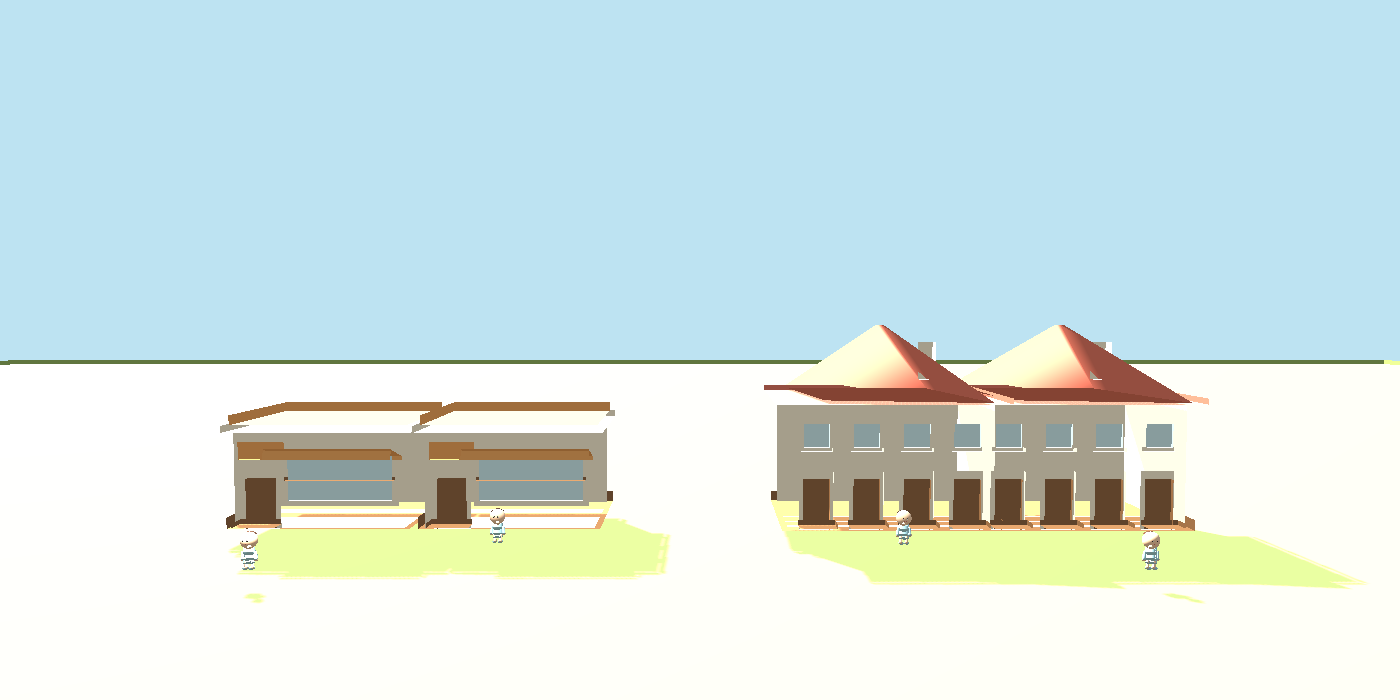
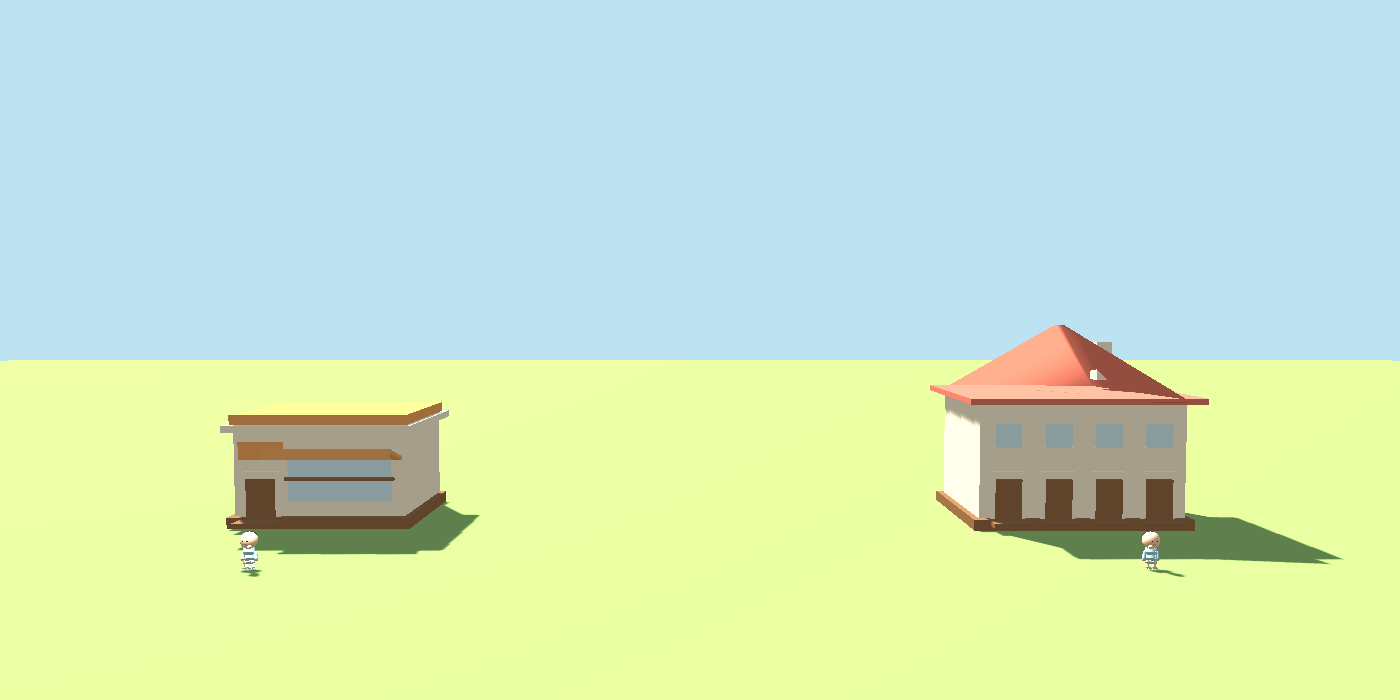
Todas las cajas del juego estaban del reves
Las paredes eran invisibles y llevaban asi desde el principio. Lo que se veia
donde tenia que estar la fachada era la cara de atras por dentro, porque el
triangulo estaba enrollado al reves y el culling se comia la de delante.

No se noto en ocho meses porque no se nota: la silueta es identica —la cara de
atras esta veinte centimetros mas alla— y lo unico que cambia es con que normal
se sombrea. Se lee como "esta pared esta rara", no como "esta pared no esta". Y
las habitaciones se miran desde dentro, donde una caja del reves se ve perfecta.

De ahi salia todo lo que ayer no supe explicar: la cuna blanca quemada en la
fachada era un rayo de sol entrando por el hueco de la chimenea y dando en la
pared de dentro; y con el sol puesto de frente los marcos y alfeizares se
iluminaban mientras el muro seguia oscuro, porque el muro que se veia era otro.
Por eso el bias no cambiaba nada: no habia nada que corregir en la sombra.

- MeshShapeTests: dos pruebas que lo habrian pillado. Una mira las normales
  contra la posicion del vertice; la otra, el sentido de cada triangulo.
- Estudio: las herramientas de captura se pisaban. Crear una escena no descarga
  la anterior, y el retrato de los munecos salio con el tronco del arbol de la
  isla de fondo. Se apagan mallas y luces de lo que no es el plato — no los
  objetos: apagar las raices de la isla mato al AudioListener en marcha y el
  editor se fue con un fallo de FMOD. Y se buscan por objeto y no recorriendo
[…]

diff --git a/Assets/_Project/Tests/MeshShapeTests.cs b/Assets/_Project/Tests/MeshShapeTests.cs
@@ -1,0 +1,63 @@
+using Nimbo.Art.Chibi;
+using NUnit.Framework;
+using UnityEngine;
+
+namespace Nimbo.Tests
+{
+    /// <summary>
+    /// Que las cajas se vean por fuera.
+    /// </summary>
+    /// <remarks>
+    /// Una caja del revés no se nota: la silueta es la misma, porque al descartar la
+    /// cara de delante se ve la de atrás por dentro, y está justo detrás. Lo que
+    /// cambia es la luz — se sombrea con la normal de la cara contraria — y eso se
+    /// lee como «esta pared está rara», no como «esta pared no está».
+    ///
+    /// Estuvo así desde el principio y aguantó porque las habitaciones se miran
+    /// desde dentro, y una caja del revés mirada desde dentro se ve perfecta.
+    /// </remarks>
+    public class MeshShapeTests
+    {
+        [Test]
+        public void LasCarasDeUnaCajaMiranHaciaFuera()
+        {
+            var mesh = MeshShapes.Box(new Vector3(2f, 3f, 4f));
+            var vertices = mesh.vertices;
+            var normals = mesh.normals;
+
+            for (int i = 0; i < vertices.Length; i++)
+            {
+                // Cada vértice está en una esquina, así que su posición ya apunta
+                // hacia fuera del centro. Si la normal mira al lado contrario, esa
+                // cara está del revés.
+                Assert.Greater(Vector3.Dot(normals[i], vertices[i]), 0f,
+                    $"El vértice {i} en {vertices[i]} tiene la normal {normals[i]}, "
+                    + "que apunta hacia dentro de la caja.");
+            }
+        }
+
+        [Test]
+        public void UnaCajaSeVeDesdeFueraYNoDesdeDentro()
+        {
+            var mesh = MeshShapes.Box(Vector3.one);
+            var vertices = mesh.vertices;
+            var triangles = mesh.triangles;
+
+            for (int t = 0; t < triangles.Length; t += 3)
+            {
+                Vector3 a = vertices[triangles[t]];
+                Vector3 b = vertices[triangles[t + 1]];
+                Vector3 c = vertices[triangles[t + 2]];
+
+                // Unity dibuja un triángulo cuando se le ve en el sentido de las
+                // agujas del reloj, y eso es lo mismo que decir que este producto
+                // vectorial apunta hacia el que mira.
+                Vector3 cara = Vector3.Cross(b - a, c - a);
+                Vector3 centro = (a + b + c) / 3f;
+
+                Assert.Greater(Vector3.Dot(cara, centro), 0f,
+                    $"El triángulo {t / 3} está enrollado al revés: se ve desde dentro.");
+            }
+        }
+    }
+}

diff --git a/Assets/_Project/Tests/PlayMode/Estudio.cs b/Assets/_Project/Tests/PlayMode/Estudio.cs
@@ -1,0 +1,44 @@
+using UnityEngine;
+using UnityEngine.SceneManagement;
+
+namespace Nimbo.PlayTests
+{
+    /// <summary>
+    /// El plató vacío donde posan las herramientas de captura.
+    /// </summary>
+    /// <remarks>
+    /// Crear una escena no descarga las que ya estaban: quedan cargadas, y lo que
+    /// hay dentro sigue saliendo en la foto. Lanzadas de una pasada, el retrato de
+    /// los muñecos salió con la pared de un edificio de fondo, porque antes había
+    /// pasado por aquí la herramienta que carga la isla entera.
+    ///
+    /// No se descargan las otras escenas —el corredor de pruebas vive en una de
+    /// ellas— y tampoco se apagan sus objetos: apagar las raíces de la isla se
+    /// llevó por delante al AudioListener con el sonido sonando, y el editor
+    /// murió con un fallo de FMOD. Se apaga solo lo que sale en la foto, que son
+    /// las mallas y las luces; lo demás sigue vivo y no se entera.
+    ///
+    /// Y se buscan por objeto, no recorriendo escenas: la isla cuelga del objeto
+    /// que sobrevive a los cambios de escena, y ese no está en ninguna de las que
+    /// enumera SceneManager. Recorriendo escenas no se apagaba nada y el tronco
+    /// del árbol seguía saliendo detrás de los muñecos.
+    /// </remarks>
+    public static class Estudio
+    {
+        public static Scene Nuevo(string nombre)
+        {
+            var escena = SceneManager.CreateScene(nombre);
+            SceneManager.SetActiveScene(escena);
+
+            foreach (var malla in Object.FindObjectsByType<Renderer>(
+                         FindObjectsInactive.Include, FindObjectsSortMode.None))
+                if (malla.gameObject.scene != escena) malla.enabled = false;
+
+            foreach (var luz in Object.FindObjectsByType<Light>(
+                         FindObjectsInactive.Include, FindObjectsSortMode.None))
+                if (luz.gameObject.scene != escena) luz.enabled = false;
+
+            return escena;
+        }
+    }
+}

diff --git a/Assets/_Project/Scripts/Art/Chibi/MeshShapes.cs b/Assets/_Project/Scripts/Art/Chibi/MeshShapes.cs
@@ -262,8 +262,8 @@ namespace Nimbo.Art.Chibi
             for (int face = 0; face < 6; face++)
             {
                 int v = face * 4, t = face * 6;
-                triangles[t] = v; triangles[t + 1] = v + 2; triangles[t + 2] = v + 1;
-                triangles[t + 3] = v; triangles[t + 4] = v + 3; triangles[t + 5] = v + 2;
+                triangles[t] = v; triangles[t + 1] = v + 1; triangles[t + 2] = v + 2;
+                triangles[t + 3] = v; triangles[t + 4] = v + 2; triangles[t + 5] = v + 3;
             }
 
             var uv = new Vector2[24];

diff --git a/Assets/_Project/Tests/PlayMode/CapturaEscala.cs b/Assets/_Project/Tests/PlayMode/CapturaEscala.cs
@@ -31,9 +31,7 @@ namespace Nimbo.PlayTests
         [UnityTest]
         public IEnumerator RetrataLaEscala()
         {
-            // Nombre propio y no «estudio»: si se lanzan las dos herramientas de una
-            // pasada, la segunda choca con la escena que dejó abierta la primera.
-            SceneManager.SetActiveScene(SceneManager.CreateScene("estudio_escala"));
+            Estudio.Nuevo("estudio_escala");
             yield return null;
 
             Luz();

diff --git a/Assets/_Project/Tests/PlayMode/CapturaPersonajes.cs b/Assets/_Project/Tests/PlayMode/CapturaPersonajes.cs
@@ -31,7 +31,7 @@ namespace Nimbo.PlayTests
         {
             // Escena nueva y en blanco: nada de cargar «Isla», que traería el prado,
             // los vecinos y su cámara. Aquí lo que se quiere es el muñeco a solas.
-            SceneManager.SetActiveScene(SceneManager.CreateScene("estudio"));
+            Estudio.Nuevo("estudio_munecos");
             yield return null;
 
             Luz();

diff --git a/Assets/_Project/Tests/PlayMode/CapturaEdificios.cs b/Assets/_Project/Tests/PlayMode/CapturaEdificios.cs
@@ -31,7 +31,7 @@ namespace Nimbo.PlayTests
         [UnityTest]
         public IEnumerator RetrataLosEdificios()
         {
-            SceneManager.SetActiveScene(SceneManager.CreateScene("estudio"));
+            Estudio.Nuevo("estudio_edificios");
             yield return null;
 
             Luz();
